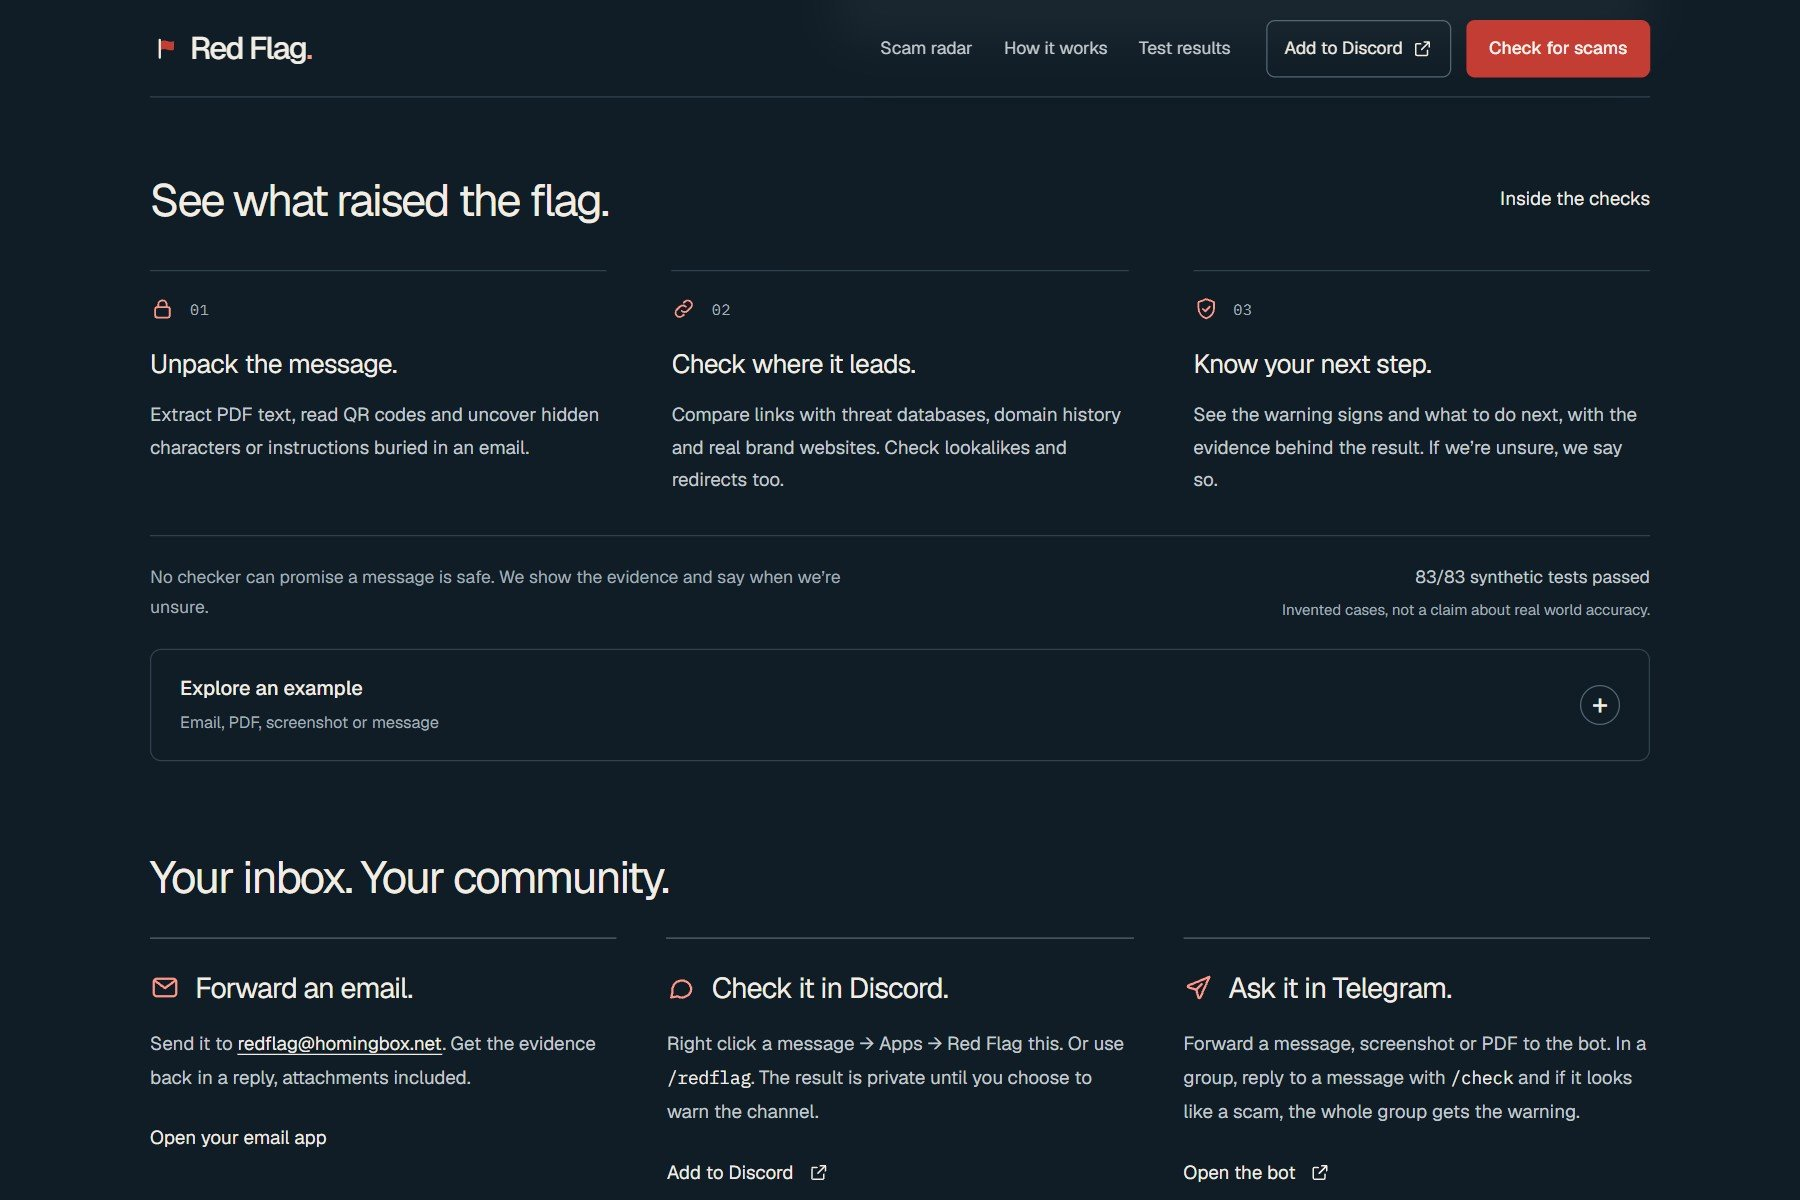
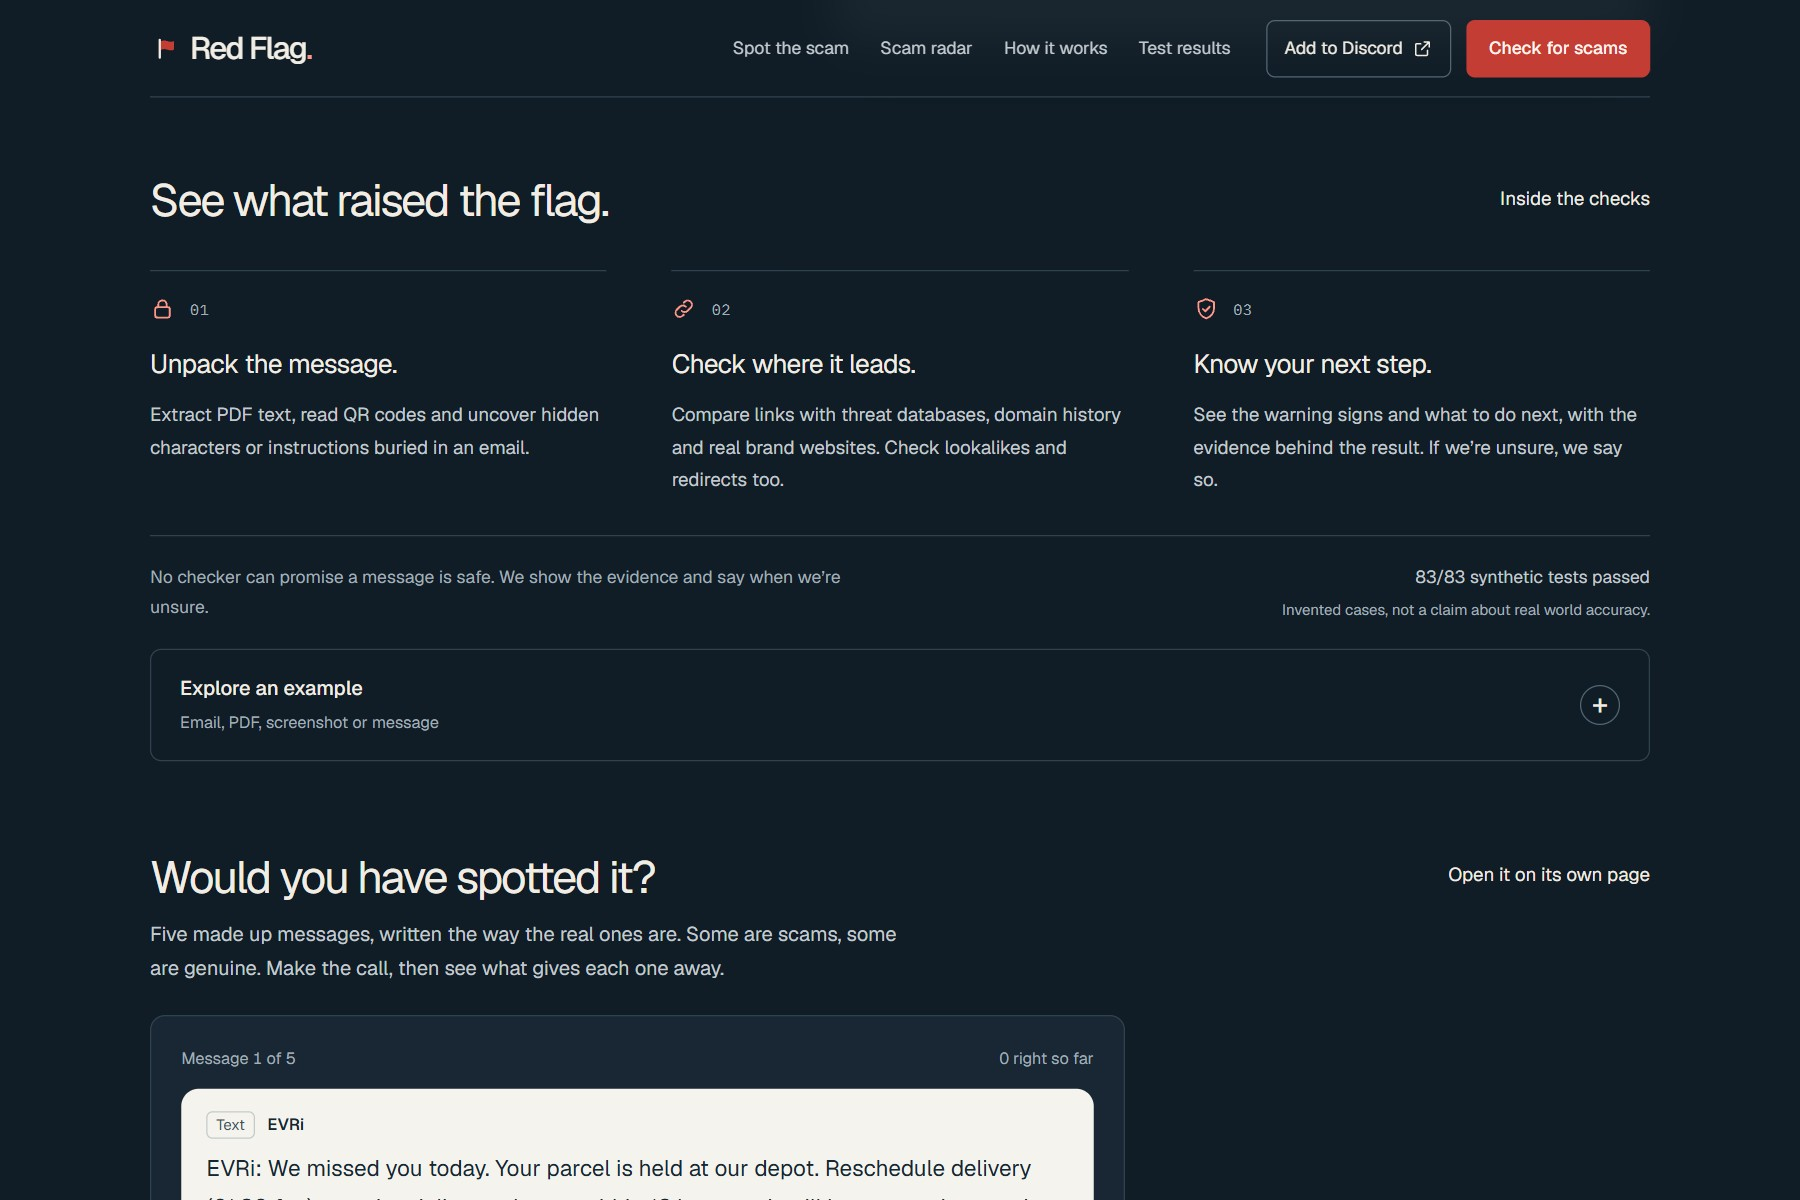
README: live checks and Spot the scam screenshots

diff --git a/README.md b/README.md
@@ -71,6 +71,8 @@ Also try the **Fake invoice PDF** and **Screenshot of a text** examples, type a 
 
 ![A scam verdict with the message marked up and the warning signs listed](docs/media/verdict.jpg)
 
+![Each link check reporting in while the AI reads](docs/media/live-checks.jpg)
+
 ![Link checks: blocklist, VirusTotal and a sandbox screenshot of a fake AT&T page](docs/media/link-checks-sandbox.jpg)
 
 ![What to do now, with relevant reporting channels](docs/media/what-to-do.jpg)
@@ -93,6 +95,8 @@ My favourite bit is for community people. A scam result in Discord has a **Warn 
 ## Spot the scam
 
 Five made up messages, some scams and some genuine. You make the call, then see the exact words that give each one away. It's at [/quiz](https://getredflag.vercel.app/quiz) and on the home page. It's there for the people who'd never paste a message into a checker, but might send a quiz to their mum.
+
+![Spot the scam: the answer, with the words that give it away](docs/media/spot-the-scam.jpg)
 
 ## How it works
 
